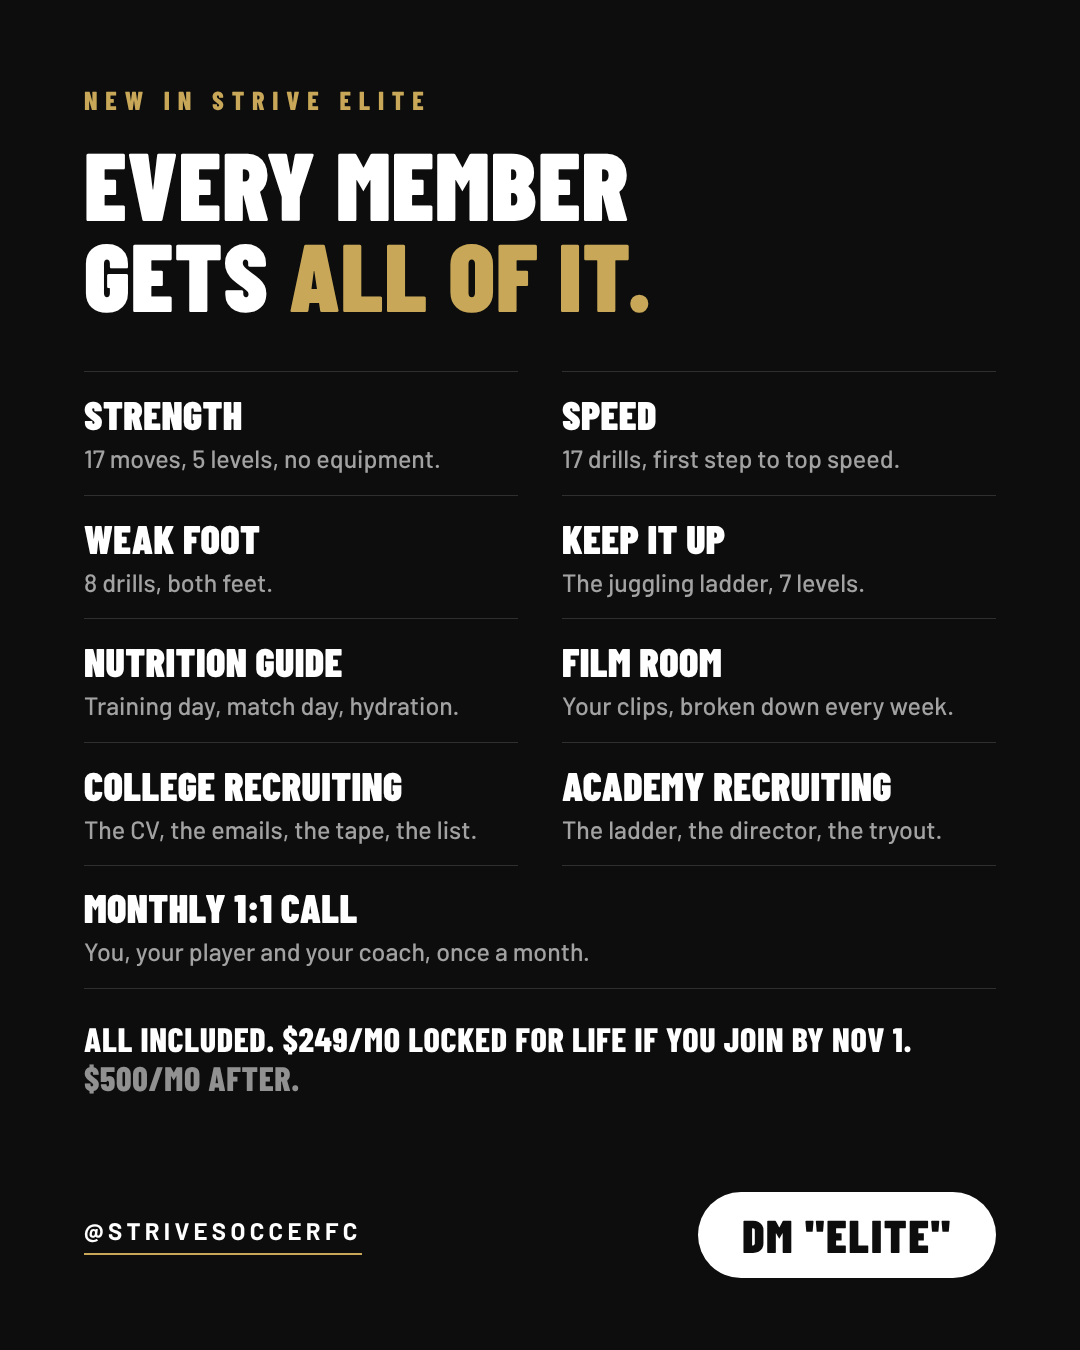
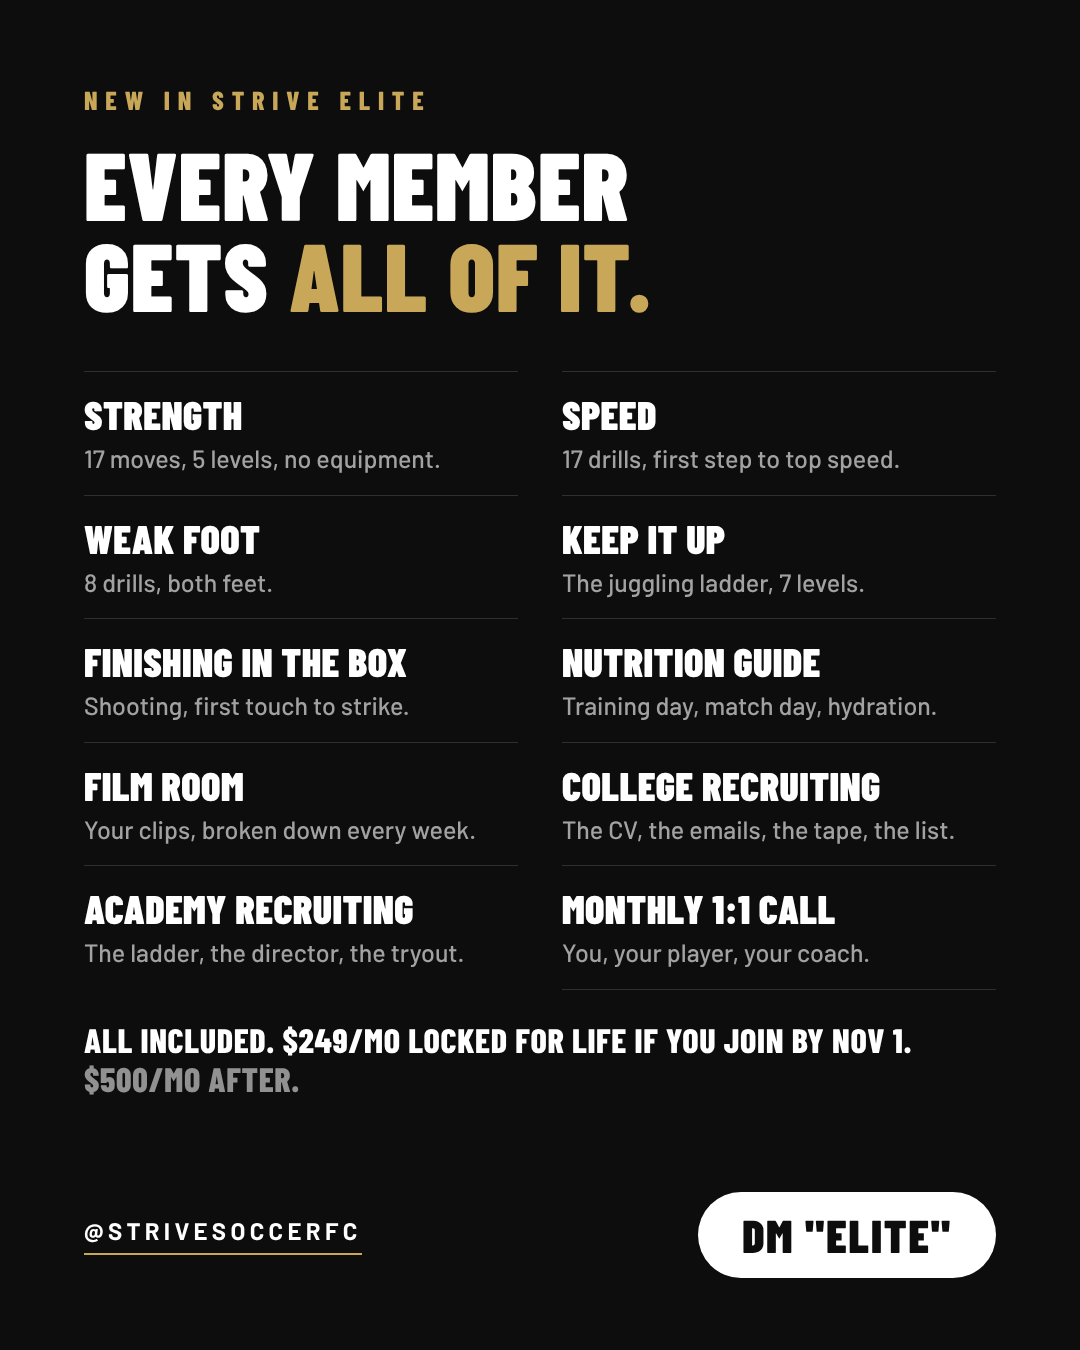
Offer post: Finishing in the Box block added on Coach Yinka's word
Claude-Session: https://claude.ai/code/session_011JsCTTjCbUkHbTuWTKQSXJ

diff --git a/marketing/announcement/offer-post/post.html b/marketing/announcement/offer-post/post.html
@@ -32,12 +32,13 @@ h1{font-family:'Barlow Condensed';font-weight:900;font-size:96px;line-height:.95
   <div class="item"><b>Speed</b><p>17 drills, first step to top speed.</p></div>
   <div class="item"><b>Weak Foot</b><p>8 drills, both feet.</p></div>
   <div class="item"><b>Keep It Up</b><p>The juggling ladder, 7 levels.</p></div>
+  <div class="item"><b>Finishing in the Box</b><p>Shooting, first touch to strike.</p></div>
   <div class="item"><b>Nutrition Guide</b><p>Training day, match day, hydration.</p></div>
   <div class="item"><b>Film Room</b><p>Your clips, broken down every week.</p></div>
-  <div class="item last"><b>College Recruiting</b><p>The CV, the emails, the tape, the list.</p></div>
-  <div class="item last"><b>Academy Recruiting</b><p>The ladder, the director, the tryout.</p></div>
+  <div class="item"><b>College Recruiting</b><p>The CV, the emails, the tape, the list.</p></div>
+  <div class="item"><b>Academy Recruiting</b><p>The ladder, the director, the tryout.</p></div>
+  <div class="item last"><b>Monthly 1:1 Call</b><p>You, your player, your coach.</p></div>
 </div>
-<div class="item last" style="border-top:0;margin-top:-1px"><b>Monthly 1:1 Call</b><p>You, your player and your coach, once a month.</p></div>
 
 <p class="all">All included. $249/mo locked for life if you join by Nov 1. <span>$500/mo after.</span></p>
 

diff --git a/marketing/announcement/strive-elite-offer-post.md b/marketing/announcement/strive-elite-offer-post.md
@@ -23,6 +23,9 @@ WEAK FOOT
 KEEP IT UP
 The juggling ladder. 7 levels, filmed drill by drill.
 
+FINISHING IN THE BOX
+Shooting in the box, first touch to strike. Pick the corner before the touch, strike through, land balanced.
+
 GENERAL NUTRITION GUIDE
 What to eat on a training day and a match day, and how to hydrate. Simple and general, no diets.
 
@@ -52,6 +55,7 @@ Strength. 17 moves, 5 levels, no equipment.
 Speed. 17 drills, first step to top speed.
 Weak Foot. 8 drills, both feet.
 Keep It Up. The juggling ladder, 7 levels.
+Finishing in the Box. Shooting, first touch to strike.
 General Nutrition Guide. Training day, match day, hydration.
 College Recruiting. The CV, the emails, the tape, the list.
 Academy Recruiting. The ladder, the director, the tryout.
@@ -61,6 +65,9 @@ Monthly 1:1 call with your coach.
 $249 a month locked for life if you join by Nov 1. DM ELITE.
 ```
 
-Flags: the General Nutrition Guide is in the post and must be live in
-the app before posting (being written Nov 1); Shooting is out until the
-clips land; the Nov 1 date needs his call if the post goes up later.
+Flags: the General Nutrition Guide is live (Nov 1). FINISHING IN THE
+BOX was added Nov 4 on Coach Yinka's "cap about it for now": the course
+is NOT in the app, no shooting clip has been sent, and the block carries
+no drill count on purpose; it becomes true the day the clips are banked
+and the course is switched on. The Nov 1 date needs his call if the
+post goes up later.

diff --git a/CLAUDE.md b/CLAUDE.md
@@ -3027,6 +3027,23 @@ commit.
       sprint in through the cones, the turn, the backpedal out; the
       straight zigzag sprint is out). 29.8 s, still silent at source.
       README list and caption updated. Rebuilt and re-sent.
+- [x] Nov 4 2026, THE OFFER POST RE-SENT (Coach Yinka: "I need the final
+      StriveElite post"; then "What about the shooting & finishing in
+      the box course"; then "I know just cap about it for now"): the
+      post.png and caption sent as built Nov 1. Checked the live
+      database first: NO shooting or finishing course exists and the
+      bank holds zero Shooting drills (the clips were never sent; the
+      pillar and needs_goal flag have been ready since Oct 26). On his
+      word a TENTH block, FINISHING IN THE BOX ("Shooting, first touch
+      to strike."), was added to the image and the caption, with no
+      drill count on purpose; the Monthly 1:1 Call line shortened so
+      every block is one line. THIS BLOCK IS NOT TRUE IN THE APP YET
+      and breaks his own Oct 12 announce-only-what-is-real rule, said
+      so once, his call; it becomes true the day the clips land, are
+      banked under Shooting with the course tick, and the course is
+      switched on. STILL HIS: the "join by Nov 1" price line is stale
+      (today is Nov 4, nothing posted): extend the date or post at
+      $500, one line and a re-render. No player data touched.
 
 ## Growth target (stamped Sept 19, Coach Yinka's own call)
 
